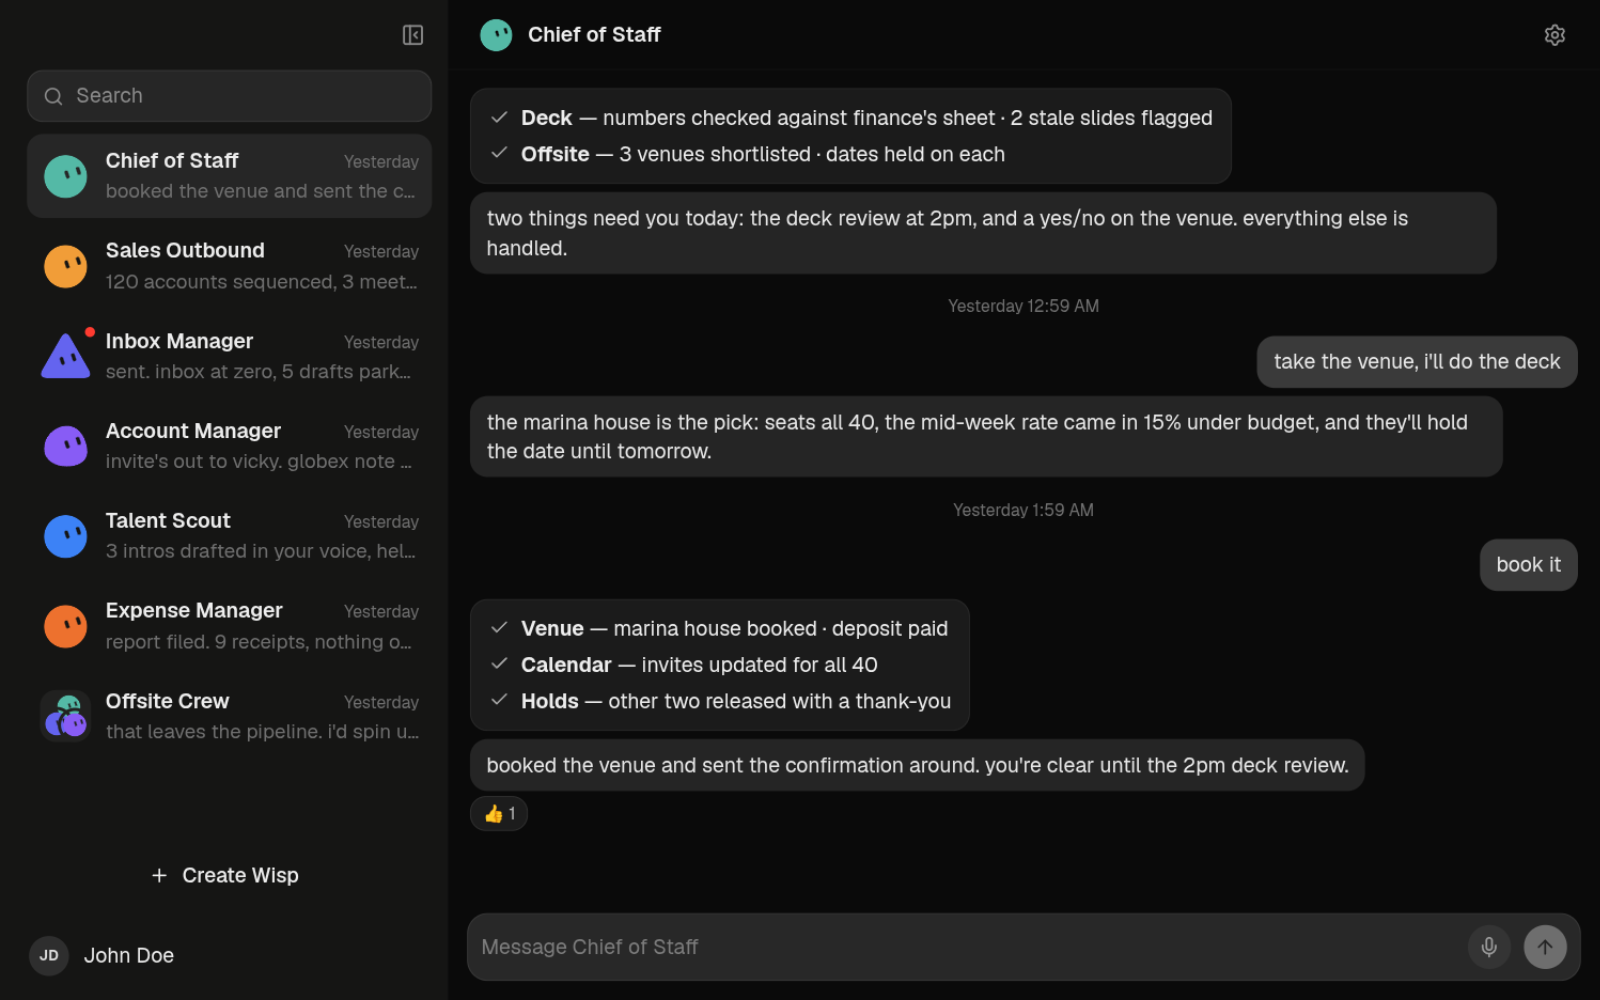
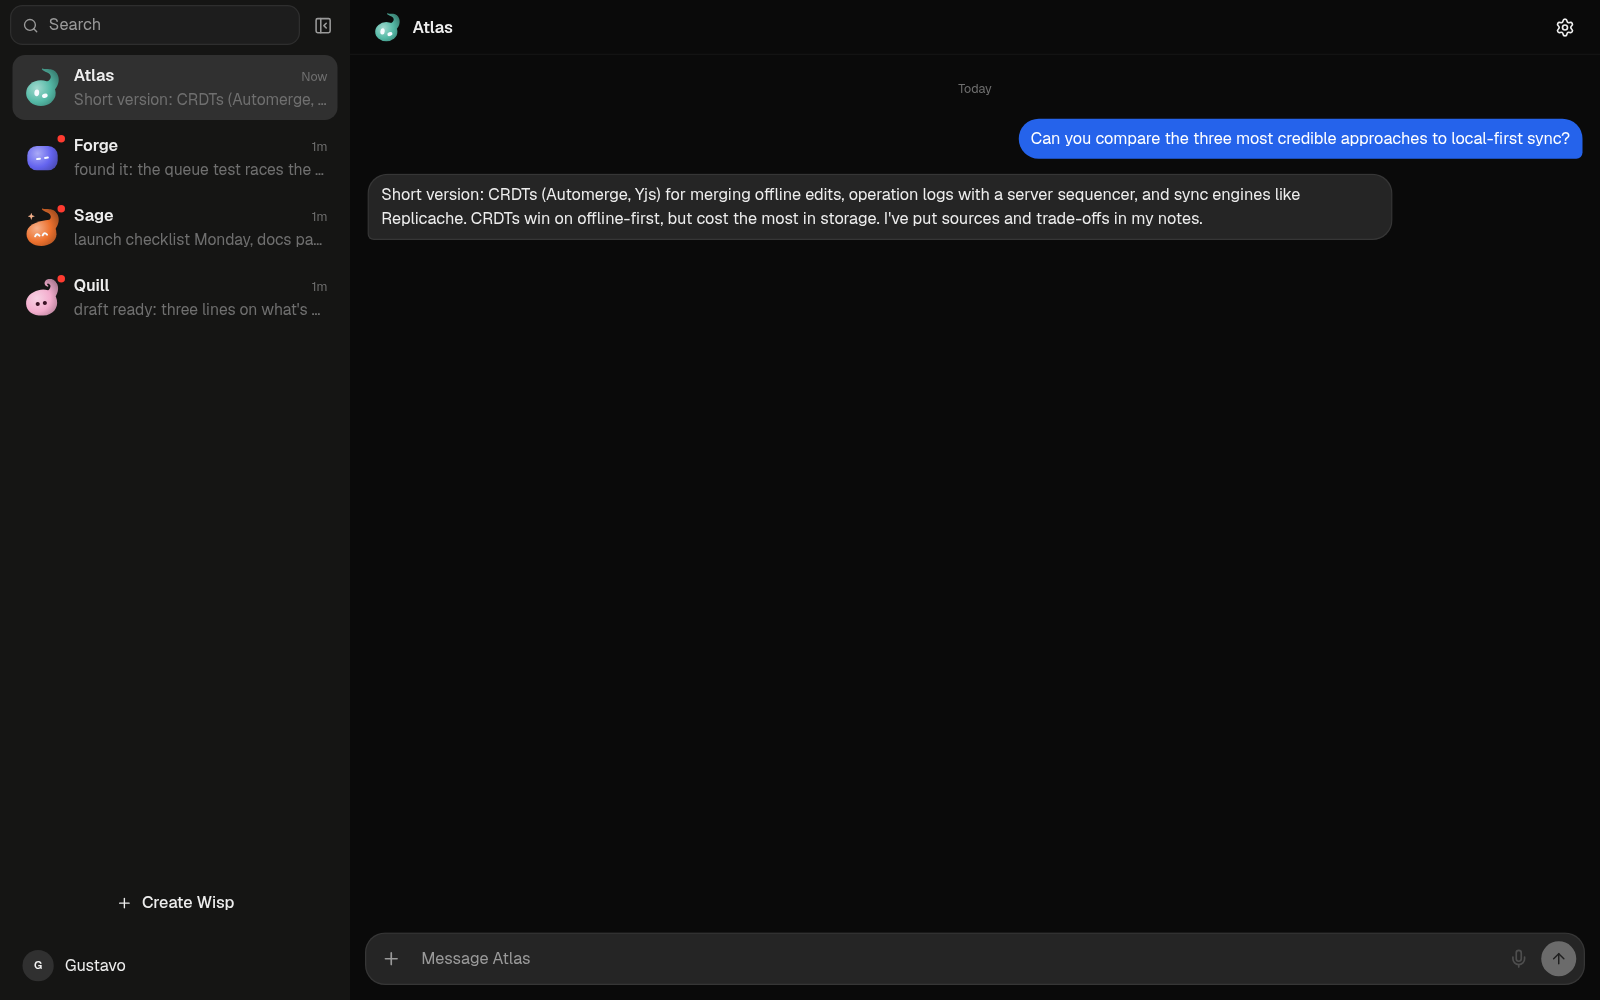
docs: present Wisp Bot as a team of specialized agents and refresh screenshots

diff --git a/README.md b/README.md
@@ -1,18 +1,34 @@
 # Wisp Bot
 
-Wisp Bot is an open-source desktop app that gives you a squad of AI agents —
-your Wisps — that keep working with you across days instead of starting over in
-every chat. Each Wisp has its own name, look, model, memory, skills, tools, and
-private workspace folder, so you can keep a research Wisp, a coding Wisp, and a
-planning Wisp side by side, each picking up where it left off.
+Wisp Bot is an open-source app for building a **team of specialized AI agents
+that work for you**. Instead of one general-purpose chat, you assemble a squad
+of Wisps — a research Wisp, a coding Wisp, a planning Wisp, a writing Wisp —
+each with a focused job, its own personality, and its own model. They keep
+working with you across days instead of starting over in every conversation.
+
+Every Wisp is yours to shape:
+
+- **Identity and personality.** Give each Wisp a name, a role, a look, and a
+  *soul*: a Markdown document that defines who it is, how it talks, and how it
+  behaves. A terse engineer and a warm editor are just two different souls.
+- **Your own keys, your own models.** You bring your own provider API keys and
+  pick the model per Wisp — a strong reasoning model for the researcher, a fast
+  cheap one for the inbox triager — or let a Wisp inherit your default.
+- **Its own memory, skills, tools, and workspace.** Each Wisp has saved memory,
+  reusable skills, the plugins and MCP servers you grant it, and a private
+  workspace folder, so one Wisp never sees another's files or access.
 
 The project is inspired by Grok Bot but built from scratch and is not affiliated
-with it. The app runs on your own machine: you bring your own model provider
-keys, and conversations, credentials, and workspaces stay in your local
-user-data directory.
+with it. The app runs on your own machine: provider keys, conversations,
+credentials, and workspaces stay in your local user-data directory, and nothing
+goes through a Wisp Bot service.
 
 <p align="center">
-  <img src="docs/screenshot.png" alt="Wisp Bot app screenshot" width="800" />
+  <img src="docs/screenshot.png" alt="Wisp Bot showing a team of Wisps in the sidebar and a conversation with Atlas, the research Wisp" width="800" />
+</p>
+
+<p align="center">
+  <img src="docs/screenshot-identity.png" alt="A Wisp's settings: appearance, name, role, and soul" width="800" />
 </p>
 
 Under the hood, each Wisp owns a persistent agent session on the
@@ -24,8 +40,15 @@ preset.
 
 ## Highlights
 
+- **A team of specialized Wisps** — create as many as you need, each with its
+  own name, role, appearance, and soul (its personality and behavior, written
+  in Markdown with starting templates). See
+  [ADR 010](docs/decisions/010-wisp-entity.md).
+- **Bring your own keys, model per Wisp** — provider keys are stored encrypted
+  and shared; each Wisp can use the global model or its own provider, model,
+  and reasoning level. See [AI models](docs/models.md).
 - **Persistent agent conversations** — one durable Pi session per Wisp, with
-  streaming events, retries, and compaction. See [AI models](docs/models.md).
+  streaming events, retries, and compaction.
 - **Bundled plugins** — Brave Search, Linear, Firecrawl, Tavily, and Exa, connected once and
   granted per Wisp. See [plugins](docs/plugins.md).
 - **Remote MCP servers** — Streamable HTTP integrations with header or OAuth
